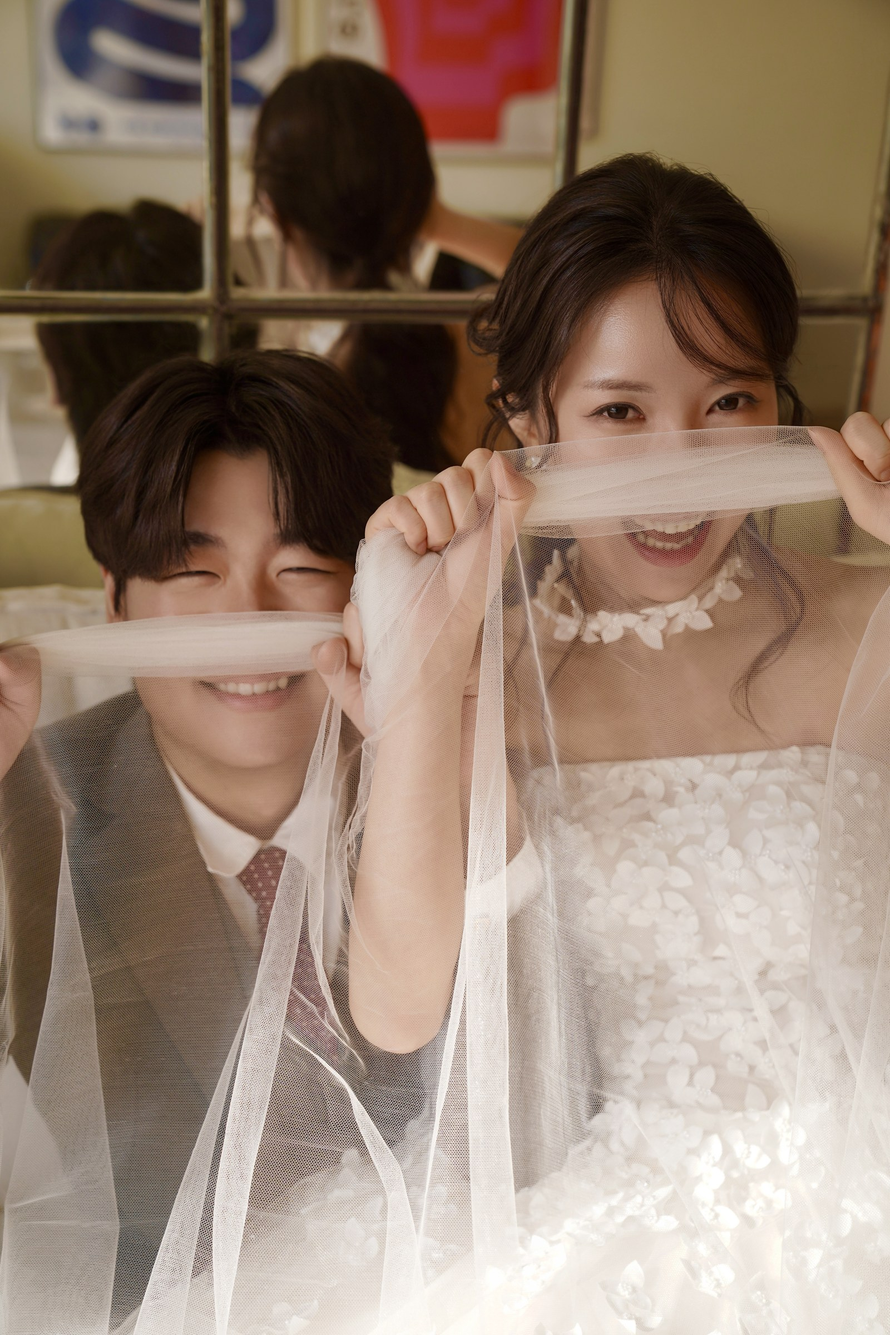
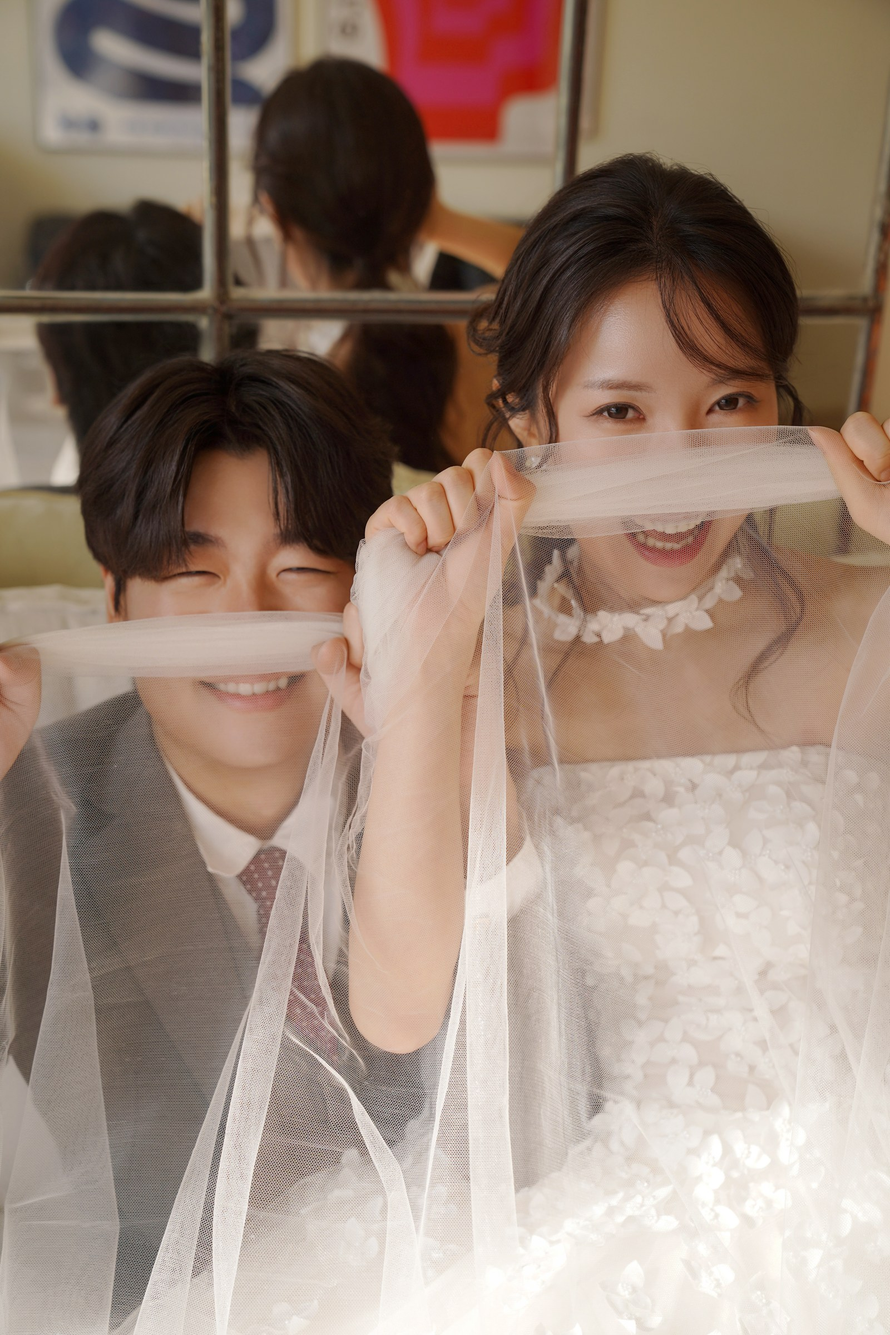
fix: harden guestbook loading on iOS

diff --git a/script.js b/script.js
@@ -12,7 +12,7 @@
 
   const $ = (sel, ctx = document) => ctx.querySelector(sel);
   const $$ = (sel, ctx = document) => [...ctx.querySelectorAll(sel)];
-  const ASSET_VERSION = '20260912-2';
+  const ASSET_VERSION = '20260915-1';
   const GALLERY_AUTOPLAY_HOLD_MS = 3000;
   const GALLERY_TRANSITION_MS = 1000;
 
@@ -1353,9 +1353,49 @@
   }
 
   function guestbookApiUrl(params = {}) {
-    const url = new URL(CONFIG.guestbook.apiUrl);
-    Object.entries(params).forEach(([key, value]) => url.searchParams.set(key, value));
-    return url.toString();
+    const baseUrl = String(CONFIG.guestbook && CONFIG.guestbook.apiUrl || '').trim();
+    if (!/^https?:\/\//i.test(baseUrl)) {
+      throw guestbookUserError('축하글 기능을 준비 중입니다.');
+    }
+
+    const query = Object.entries(params)
+      .filter(([, value]) => value !== undefined && value !== null)
+      .map(([key, value]) => `${encodeURIComponent(key)}=${encodeURIComponent(String(value))}`)
+      .join('&');
+    if (!query) return baseUrl;
+    return `${baseUrl}${baseUrl.includes('?') ? '&' : '?'}${query}`;
+  }
+
+  function guestbookUserError(message) {
+    const error = new Error(message);
+    error.isGuestbookUserError = true;
+    return error;
+  }
+
+  function guestbookErrorMessage(error, fallback) {
+    if (error && error.isGuestbookUserError && error.message) return error.message;
+    console.warn('Guestbook request failed:', error);
+    return fallback;
+  }
+
+  async function fetchGuestbookJson(url, options, fallbackMessage, retryOnce = false) {
+    const attempts = retryOnce ? 2 : 1;
+    let lastError;
+
+    for (let attempt = 0; attempt < attempts; attempt += 1) {
+      try {
+        const response = await fetch(url, options);
+        if (!response.ok) throw new Error(`Guestbook HTTP ${response.status}`);
+        const result = await response.json();
+        if (!result.ok) throw guestbookUserError(result.error || fallbackMessage);
+        return result;
+      } catch (error) {
+        if (error && error.isGuestbookUserError) throw error;
+        lastError = error;
+      }
+    }
+
+    throw lastError;
   }
 
   async function guestbookRequest(action, payload) {
@@ -1363,7 +1403,7 @@
       throw new Error('축하글 기능을 준비 중입니다.');
     }
 
-    const options = { cache: 'no-store', redirect: 'follow' };
+    const options = { cache: 'no-store' };
     let url;
     if (payload === undefined) {
       url = guestbookApiUrl({ action, t: Date.now() });
@@ -1374,10 +1414,7 @@
       options.body = JSON.stringify({ action, clientId: guestbookClientId(), ...payload });
     }
 
-    const response = await fetch(url, options);
-    const result = await response.json();
-    if (!result.ok) throw new Error(result.error || '요청을 처리하지 못했습니다.');
-    return result;
+    return fetchGuestbookJson(url, options, '요청을 처리하지 못했습니다.');
   }
 
   function formatGuestbookDate(value) {
@@ -1439,9 +1476,12 @@
         t: Date.now()
       };
       if (!reset && guestbookState.nextCursor) params.cursor = guestbookState.nextCursor;
-      const response = await fetch(guestbookApiUrl(params), { cache: 'no-store', redirect: 'follow' });
-      const result = await response.json();
-      if (!result.ok) throw new Error(result.error || '축하글을 불러오지 못했습니다.');
+      const result = await fetchGuestbookJson(
+        guestbookApiUrl(params),
+        { cache: 'no-store' },
+        '축하글을 불러오지 못했습니다.',
+        true
+      );
 
       guestbookState.messages = reset ? result.messages : guestbookState.messages.concat(result.messages);
       guestbookState.nextCursor = result.nextCursor || '';
@@ -1456,7 +1496,10 @@
       $('#guestbookHeartBtn').setAttribute('aria-pressed', result.liked ? 'true' : 'false');
     } catch (error) {
       status.hidden = false;
-      status.textContent = error.message;
+      status.textContent = guestbookErrorMessage(
+        error,
+        '축하글을 불러오지 못했습니다. 잠시 후 다시 시도해 주세요.'
+      );
     } finally {
       guestbookState.loading = false;
     }
@@ -1531,7 +1574,10 @@
         showToast('축하글이 등록되었습니다');
         await loadGuestbook(true);
       } catch (requestError) {
-        error.textContent = requestError.message;
+        error.textContent = guestbookErrorMessage(
+          requestError,
+          '축하글을 등록하지 못했습니다. 잠시 후 다시 시도해 주세요.'
+        );
       } finally {
         setGuestbookSubmitting(submit, false, '등록');
       }
@@ -1582,7 +1628,10 @@
         showToast('축하글이 삭제되었습니다');
         await loadGuestbook(true);
       } catch (requestError) {
-        error.textContent = requestError.message;
+        error.textContent = guestbookErrorMessage(
+          requestError,
+          '축하글을 삭제하지 못했습니다. 잠시 후 다시 시도해 주세요.'
+        );
       } finally {
         setGuestbookSubmitting(submit, false, '삭제');
       }
@@ -1600,7 +1649,10 @@
         $('#guestbookHeartCount').textContent = String(result.heartCount);
         showToast('축하해 주셔서 감사합니다');
       } catch (error) {
-        showToast(error.message);
+        showToast(guestbookErrorMessage(
+          error,
+          '하트를 보내지 못했습니다. 잠시 후 다시 시도해 주세요.'
+        ));
       } finally {
         heartButton.disabled = false;
       }

diff --git a/index.html b/index.html
@@ -21,7 +21,7 @@
   <link rel="preconnect" href="https://fonts.gstatic.com" crossorigin>
   <link href="https://fonts.googleapis.com/css2?family=Playfair+Display:wght@500;600;700&family=Noto+Serif+KR:wght@200;300;400;500;600;700&family=Cormorant+Garamond:ital,wght@0,300;0,400;0,500;1,300;1,400&display=swap" rel="stylesheet">
 
-  <link rel="stylesheet" href="styles.css?v=20260912-3">
+  <link rel="stylesheet" href="styles.css?v=20260915-1">
   <script src="config.js?v=20260911-1"></script>
 </head>
 <body>
@@ -341,6 +341,6 @@
 
   <script src="https://t1.kakaocdn.net/kakao_js_sdk/2.8.2/kakao.min.js"
     crossorigin="anonymous"></script>
-  <script src="script.js?v=20260912-2"></script>
+  <script src="script.js?v=20260915-1"></script>
 </body>
 </html>

diff --git a/styles.css b/styles.css
@@ -1789,6 +1789,10 @@ a {
   margin: 1rem auto 0;
 }
 
+.guestbook__more[hidden] {
+  display: none;
+}
+
 .guestbook-heart {
   display: grid;
   justify-items: center;
